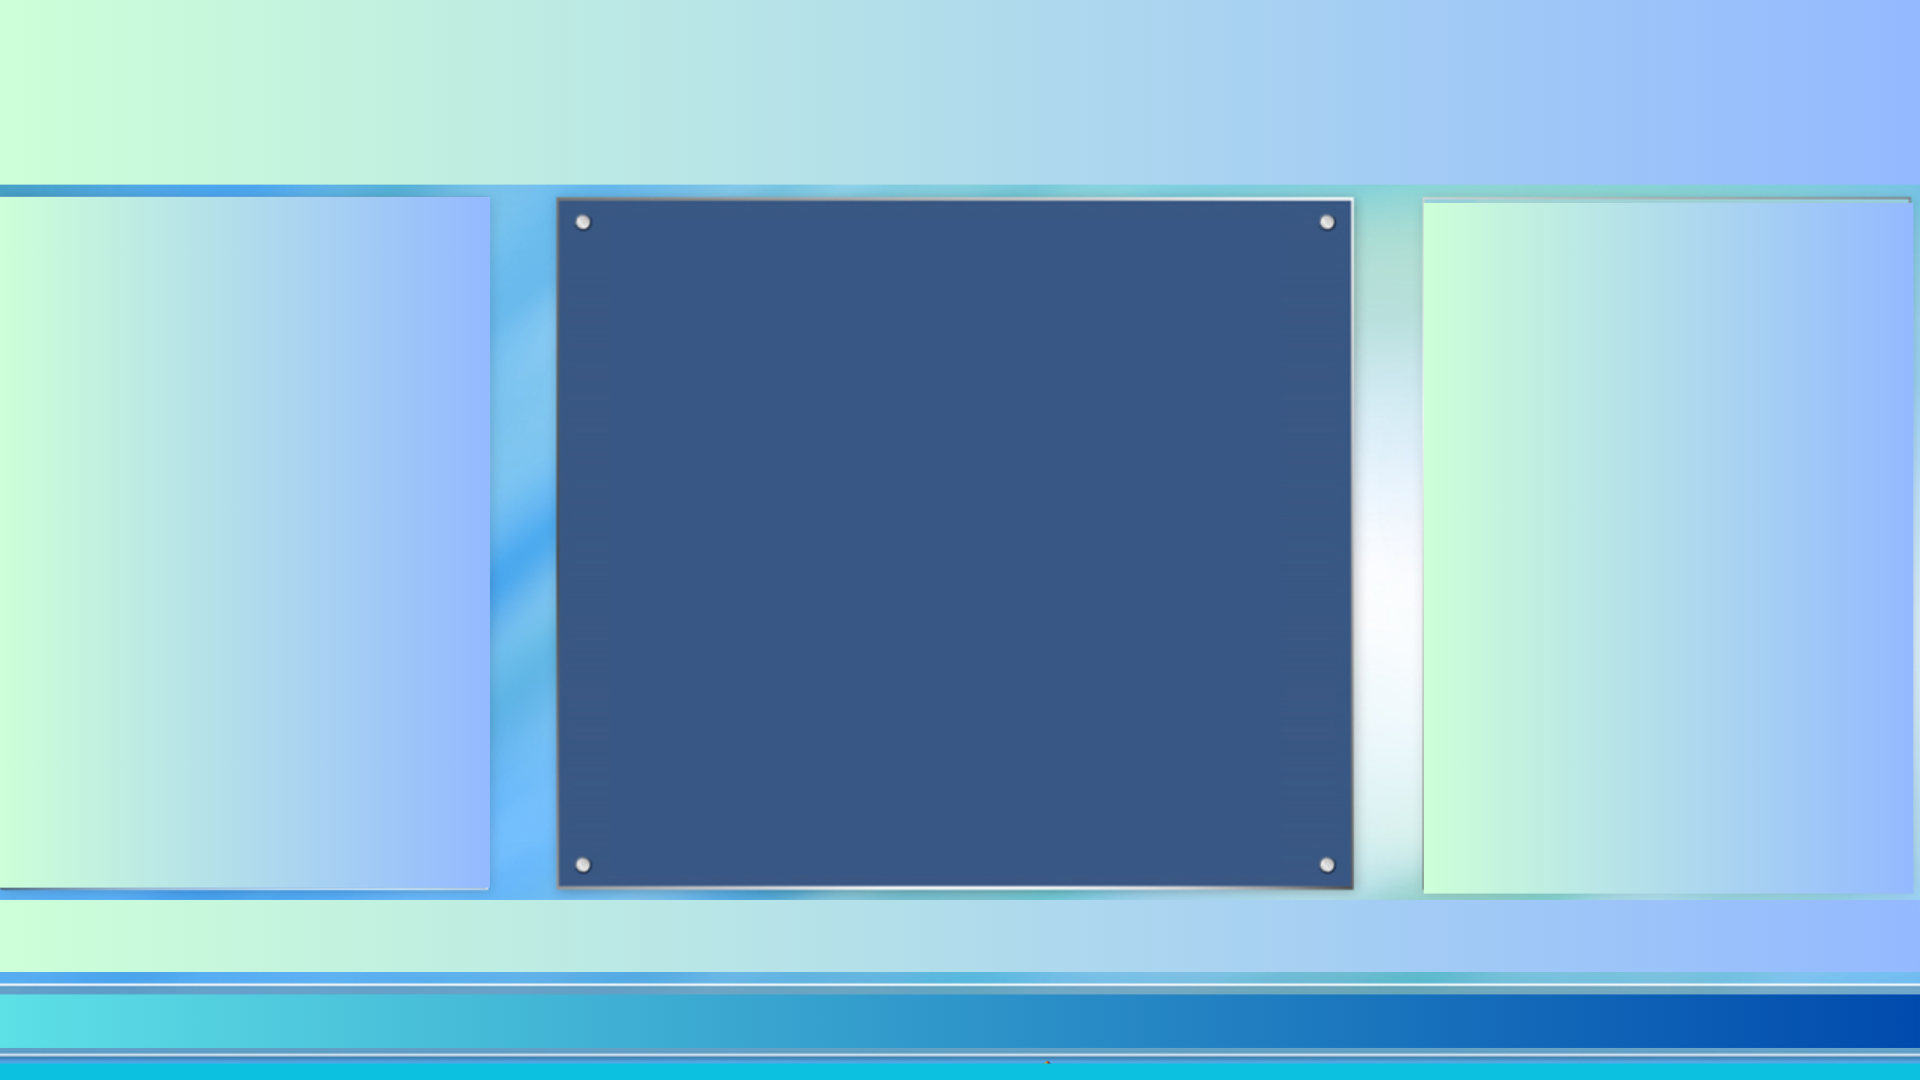
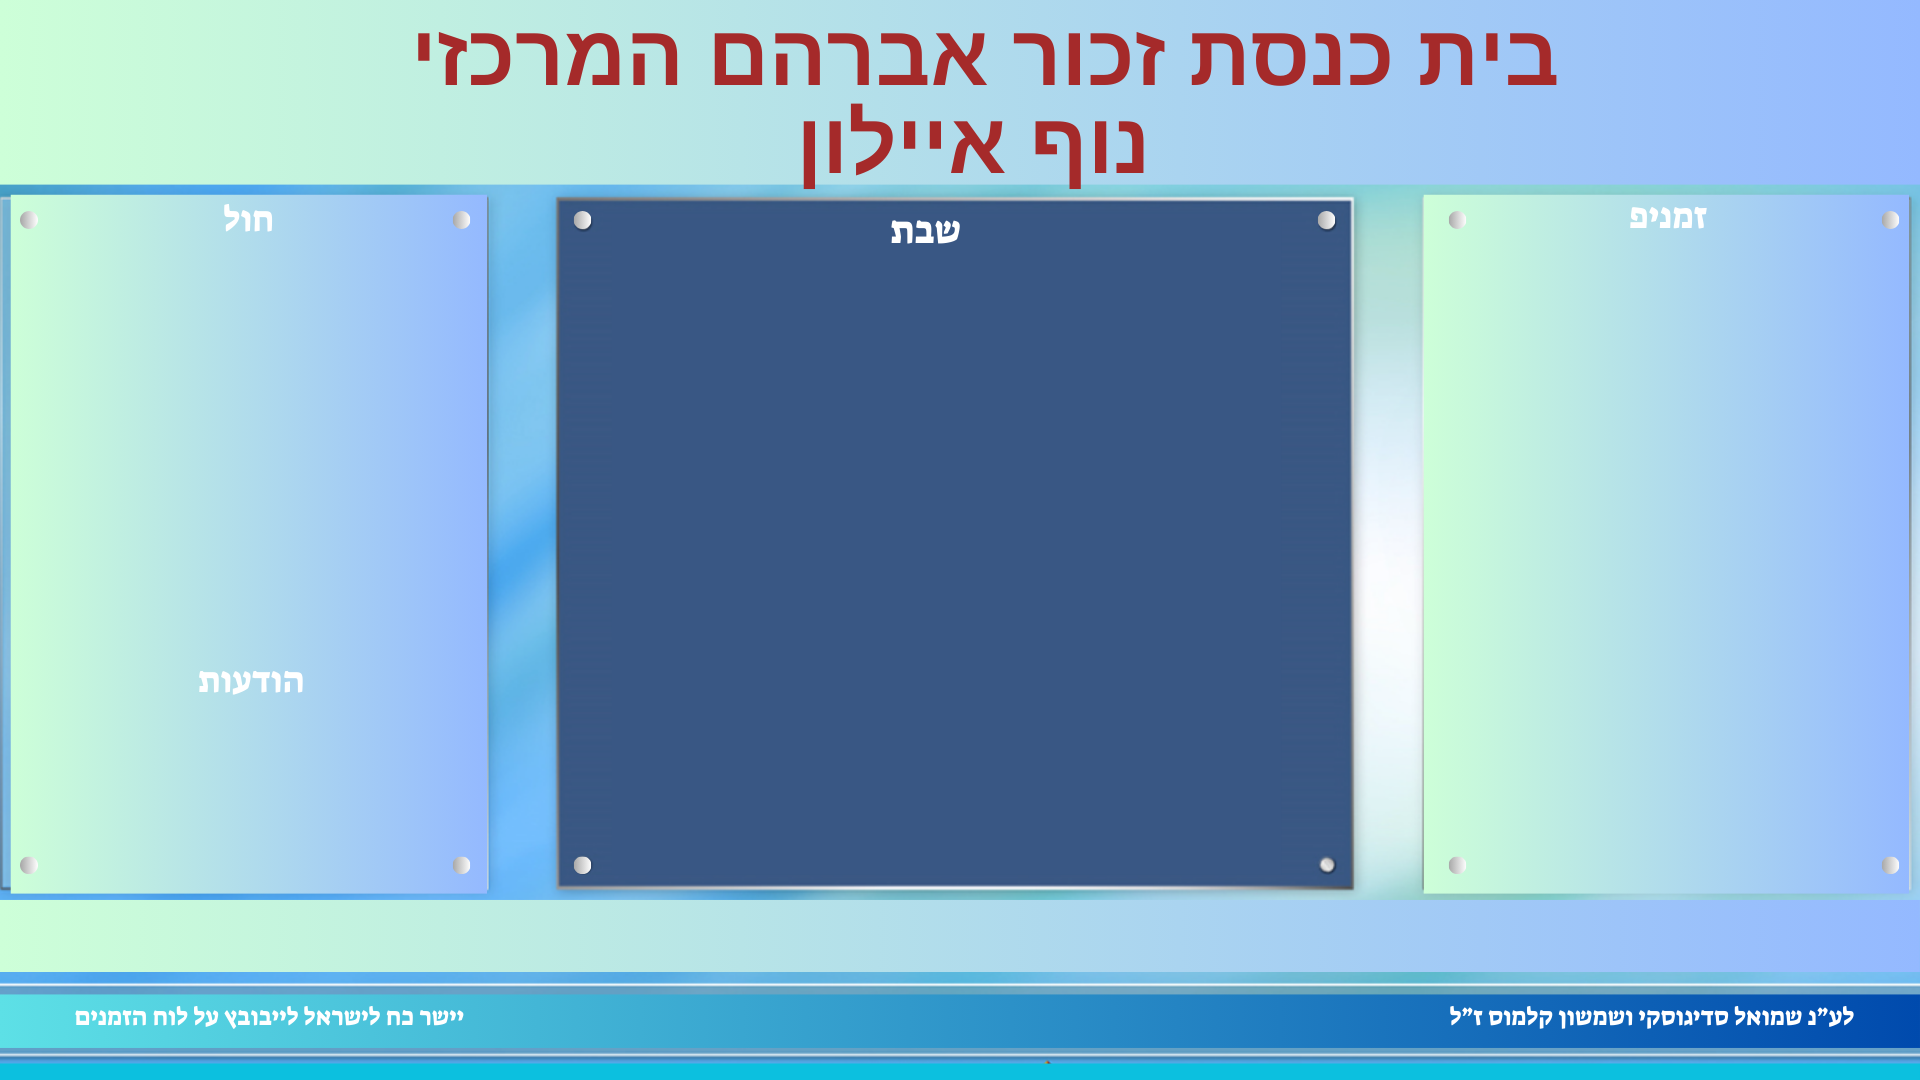
update background

diff --git a/styles.css b/styles.css
@@ -5,34 +5,31 @@ body {
     font-weight: bold;
     line-height: 1.0;
     height: 100vh;
-    background: white; /* #CFE2F6; */
     font-size: 24px; 
-    color: black;    
-
+    color: white;    
 }
 
 .container-fluid {
     padding-left: 30px;
     padding-right: 30px;
 }
+
 .box {
-    background-color: #f8f9fa;
-    border: 2px solid #F4AE33;
     padding: 20px;
     margin-bottom: 20px;
 }
+
 .row.no-gutters {
     margin-right: 0;
     margin-left: 0;
 }
+
 .row.no-gutters > [class*='col-'] {
     padding-right: 0;
     padding-left: 0;
 }
 
 .thick-border {    
-    box-shadow: 0 0 10px rgba(0, 0, 0, 0.5), 0 0 20px rgba(255, 0, 0, 0.5);
-    border-radius: 15px; /* Adds rounded corners */
     padding: 10px;
     margin: 10px;
 }
@@ -40,84 +37,22 @@ body {
 .luach-title {
     font-size: 1.2em;
     font-weight: bold;
-    color: brown;
+    color: #a52a2a;
 }
-
-/*
-
-.background-image {
-    background-color: #f8f9fa;
-    position: relative; 
-    width: 100%;
-    height: 100vh; 
-    background-image: url('https://ysadigurs.github.io/luach_beit_knesset/background_blue.png');
-    background-size: cover;
-    background-position: center;
-    background-repeat: no-repeat;
-    margin: 0;
-    padding: 0;
-}
-*/
-
-/*        
-.scrollable-column {
-    max-height: 200vh;
-    overflow-y: auto;     
-}
- 
-.background-image {  
-    background-color: #f8f9fa;
-}
-@media (min-width: 200px) {
-    .background-image {
-        background-image: url('https://ysadigurs.github.io/luach_beit_knesset/background.png');
-        background-size: cover;
-        background-repeat: no-repeat;
-        background-position: center;
-    }
-}
-*/
-/*
-.align-left {
-    justify-content: flex-start;
-}
-*/
-/*
-.overlay-content {
-    position: absolute;
-    top: 0;
-    left: 0;
-    width: 100%;
-    height: 100%;
-    display: flex;
-    align-items: center;
-    justify-content: center;
-    color: white;
-}
-*/
-/*
-#top-image {
-    width: 100%;
-    height: auto;
-}
-*/
 
 .no-border .col {
     border: none;
 }
 
 .card-header {
-    text-align: center; /* Align card headers to the center */
-    /*background-color: transparent;*/
+    text-align: center;     
 }
 
 .card-body {
-    text-align: right;    
-    /*background: transparent;*/
+    text-align: right;        
 }
 
 .custom-container {    
-    background: white; /* #9dc4ed;  */
     color: blue;
     height: 100vh; 
     display: flex;
@@ -128,13 +63,6 @@ body {
 .align-right {
     justify-content: flex-end; /* Flexbox utility to align right */
 }
-
-/*
-.col-custom {
-    padding-left: 50px;
-    padding-right: 150px;
-}
-*/
 
 .col-date {    
     background-color: transparent !important;
@@ -150,28 +78,11 @@ body {
 }
 
 .custom-card{
-    background: rgba(255, 255, 255, 0.5); /* linear-gradient(to right, rgba(169, 238, 241), rgb(198, 216, 239));    #A9EEF1 = rgba(169, 238, 241), #C6D8EF = rga(198, 216, 239) */     
+    background-color: transparent !important;
 }
 
 .custom-card .card-header,
 .custom-card .card-body {
-    background: rgba(255, 255, 255, 0.5); /* was linear-gradient(to right, rgba(169, 238, 241),rgba(198, 216, 239)); */
     margin-right: 10px;         
 }
 
-
-.text-wrap {
-    white-space: normal; /* Ensures text wraps within the column */
-}
-
-/*
-.bg-image {
-    background-image: url('ארון\ הקודש\ 1.jpg');
-    background-size: cover;
-    background-position: center;
-    background-repeat: no-repeat;
-    padding: 50px; 
-    color: white; 
-    border-radius: 15px; 
-  }
-*/

diff --git a/index.html b/index.html
@@ -13,13 +13,16 @@
     <link rel="icon" href="favicon.ico" type="image/x-icon">
 </head>
 
-<body style="background-image: url('https://ysadigurs.github.io/luach_beit_knesset/your-background_blue_3cols.png'); background-size: cover; background-position: center; background-repeat: no-repeat;">    
+<body style="background-image: url('https://ysadigurs.github.io/luach_beit_knesset/background_blue_3cols.png'); background-size: cover; background-position: center; background-repeat: no-repeat;">    
             <div class="container-fluid ">
+                
+                <!--
                 <div class="row no-gutters text-primary h1">                    
                     <div class="col" style="text-align: center; border: none;">
                         <h1 class="luach-title">בית כנסת זכור אברהם מרכזי - נוף איילון</h1>
                     </div>
                 </div>
+                -->
             </div>
             <div class="row mt-4 gx-5">
                 <div class="col-md-4 col-12">
@@ -43,7 +46,7 @@
             <div class="row mt-3 gx-5">
                 <div class="col-md-4 col-12">
                     <div class="card h-100 custom-card mr-lg-5 thick-border">
-                        <div class="card-header"><p>זמנים</p></div>
+                       <!-- <div class="card-header"><p>זמנים</p></div> -->
                         <div class="card-body">
                             <div class="row">
                                 <div class="col-5">
@@ -127,7 +130,7 @@
                 </div>
                 <div class="col-md-4 col-12">
                     <div class="card h-100 custom-card mr-lg-5 thick-border">
-                        <div class="card-header"><p>שבת</p></div>
+                        <!-- <div class="card-header"><p>שבת</p></div> -->
                         <div class="card-body">
                             <div class="row">
                                 <div class="col-5">
@@ -220,7 +223,7 @@
                 </div>
                 <div class="col-md-4 col-12">
                     <div class="card custom-card mr-lg-5 ml-lg-5 thick-border">
-                        <div class="card-header"><p>חול</p></div>
+                        <!--<div class="card-header"><p>חול</p></div>-->
                         <div class="card-body">
                             <div class="row">
                                 <div class="col-5">
@@ -272,11 +275,13 @@
                     </div>
                 </div>
             </div>
+            <!--
             <div>
                 <p>&nbsp;</p>
                 <p>יישר כח לישראל ליבוביץ על הזמנים</p>
                 <p>לע״נ שמואל סדיגורסקי ושמשון שמעון קלמוס ז״ל</p>
             </div>
+            -->
         </div>     
     </div>
     <script src="https://code.jquery.com/jquery-3.5.1.slim.min.js"></script>
